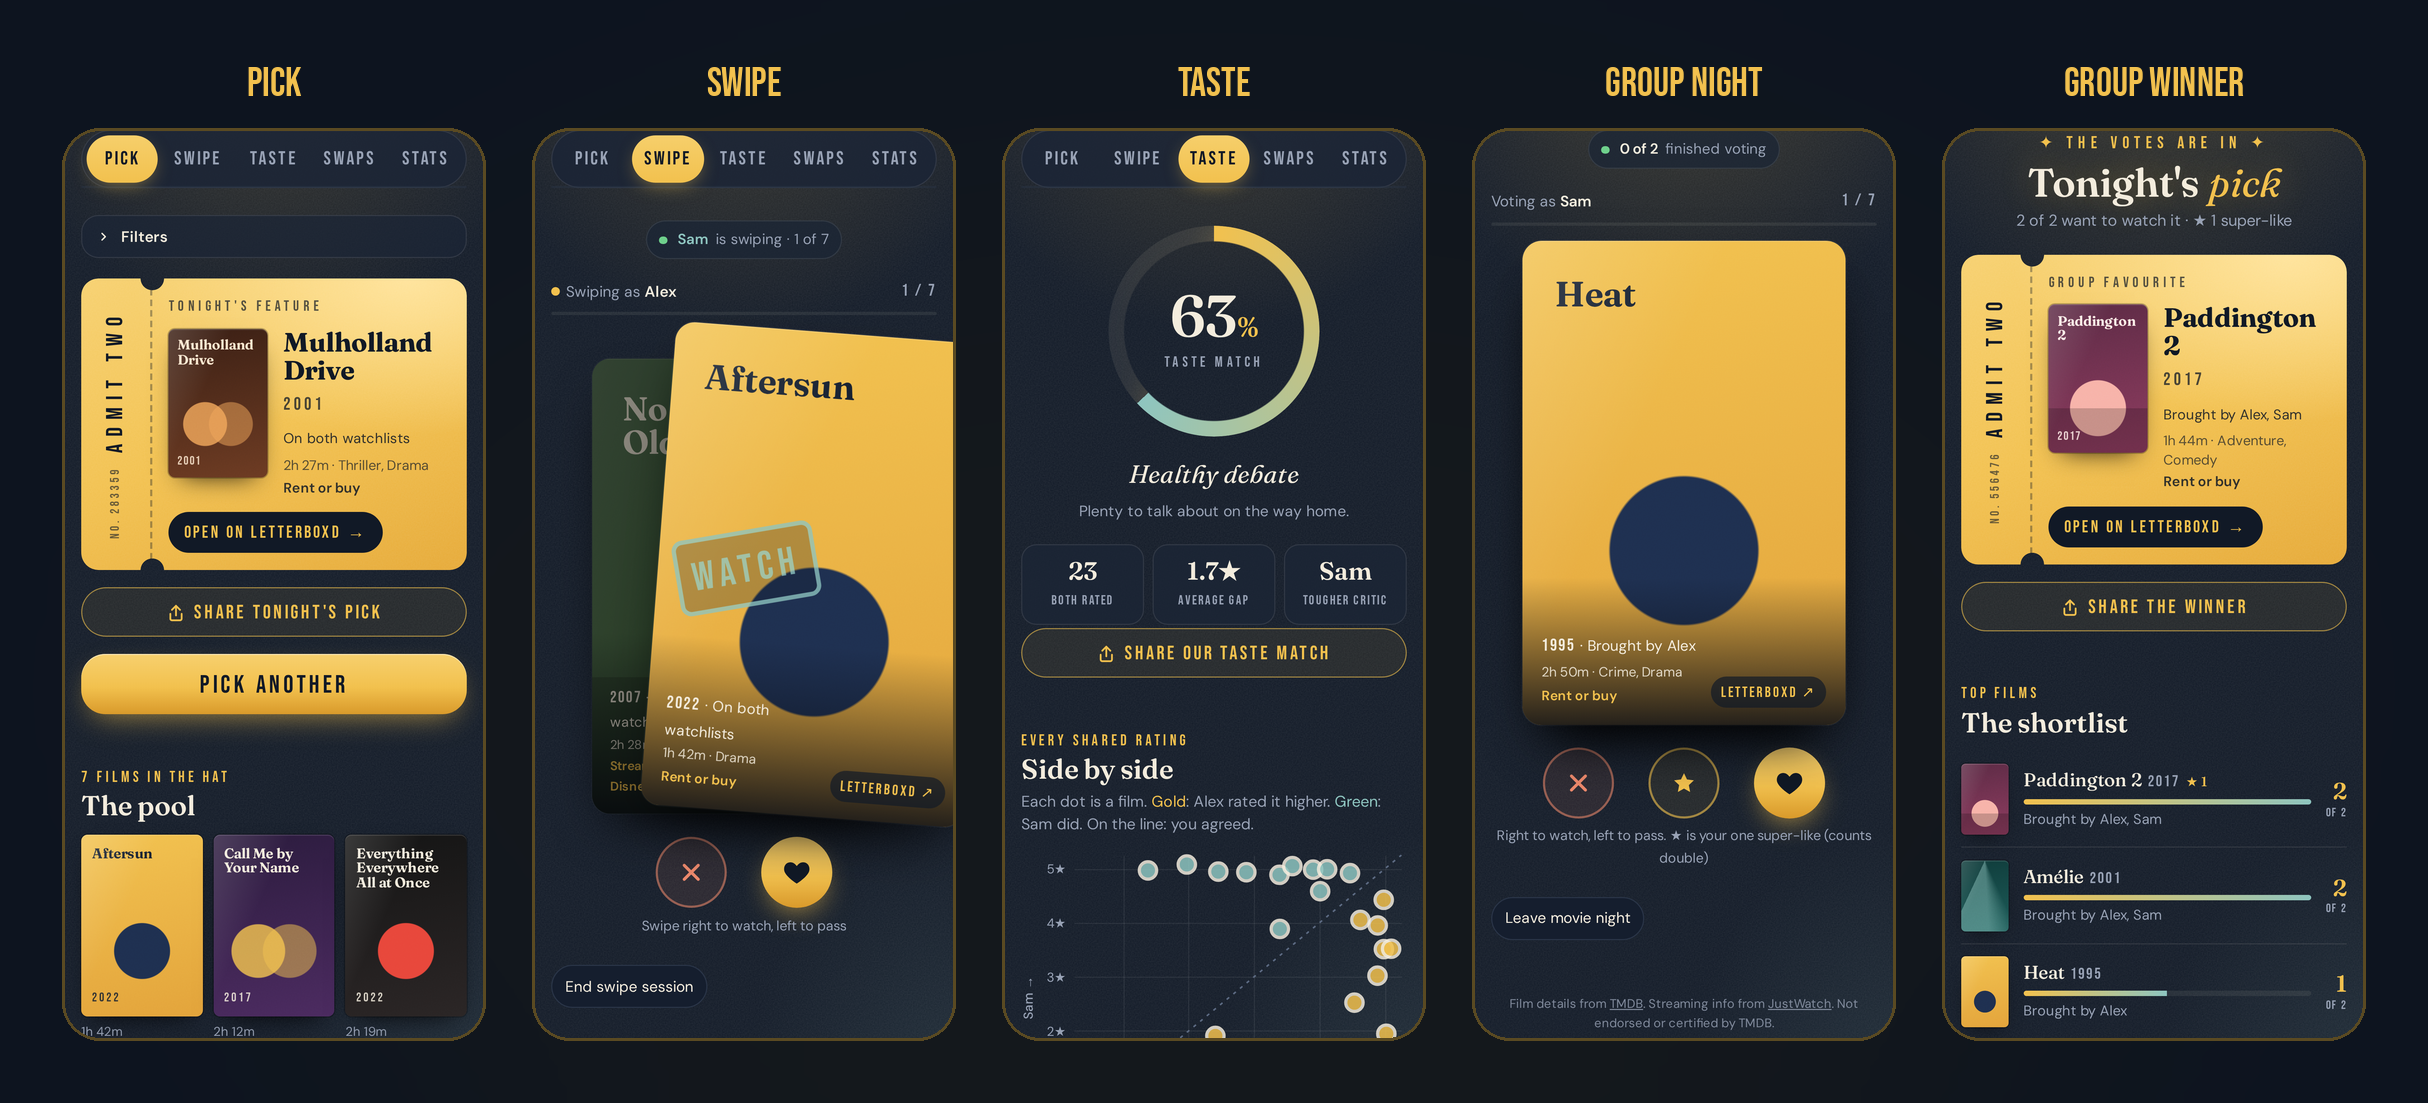
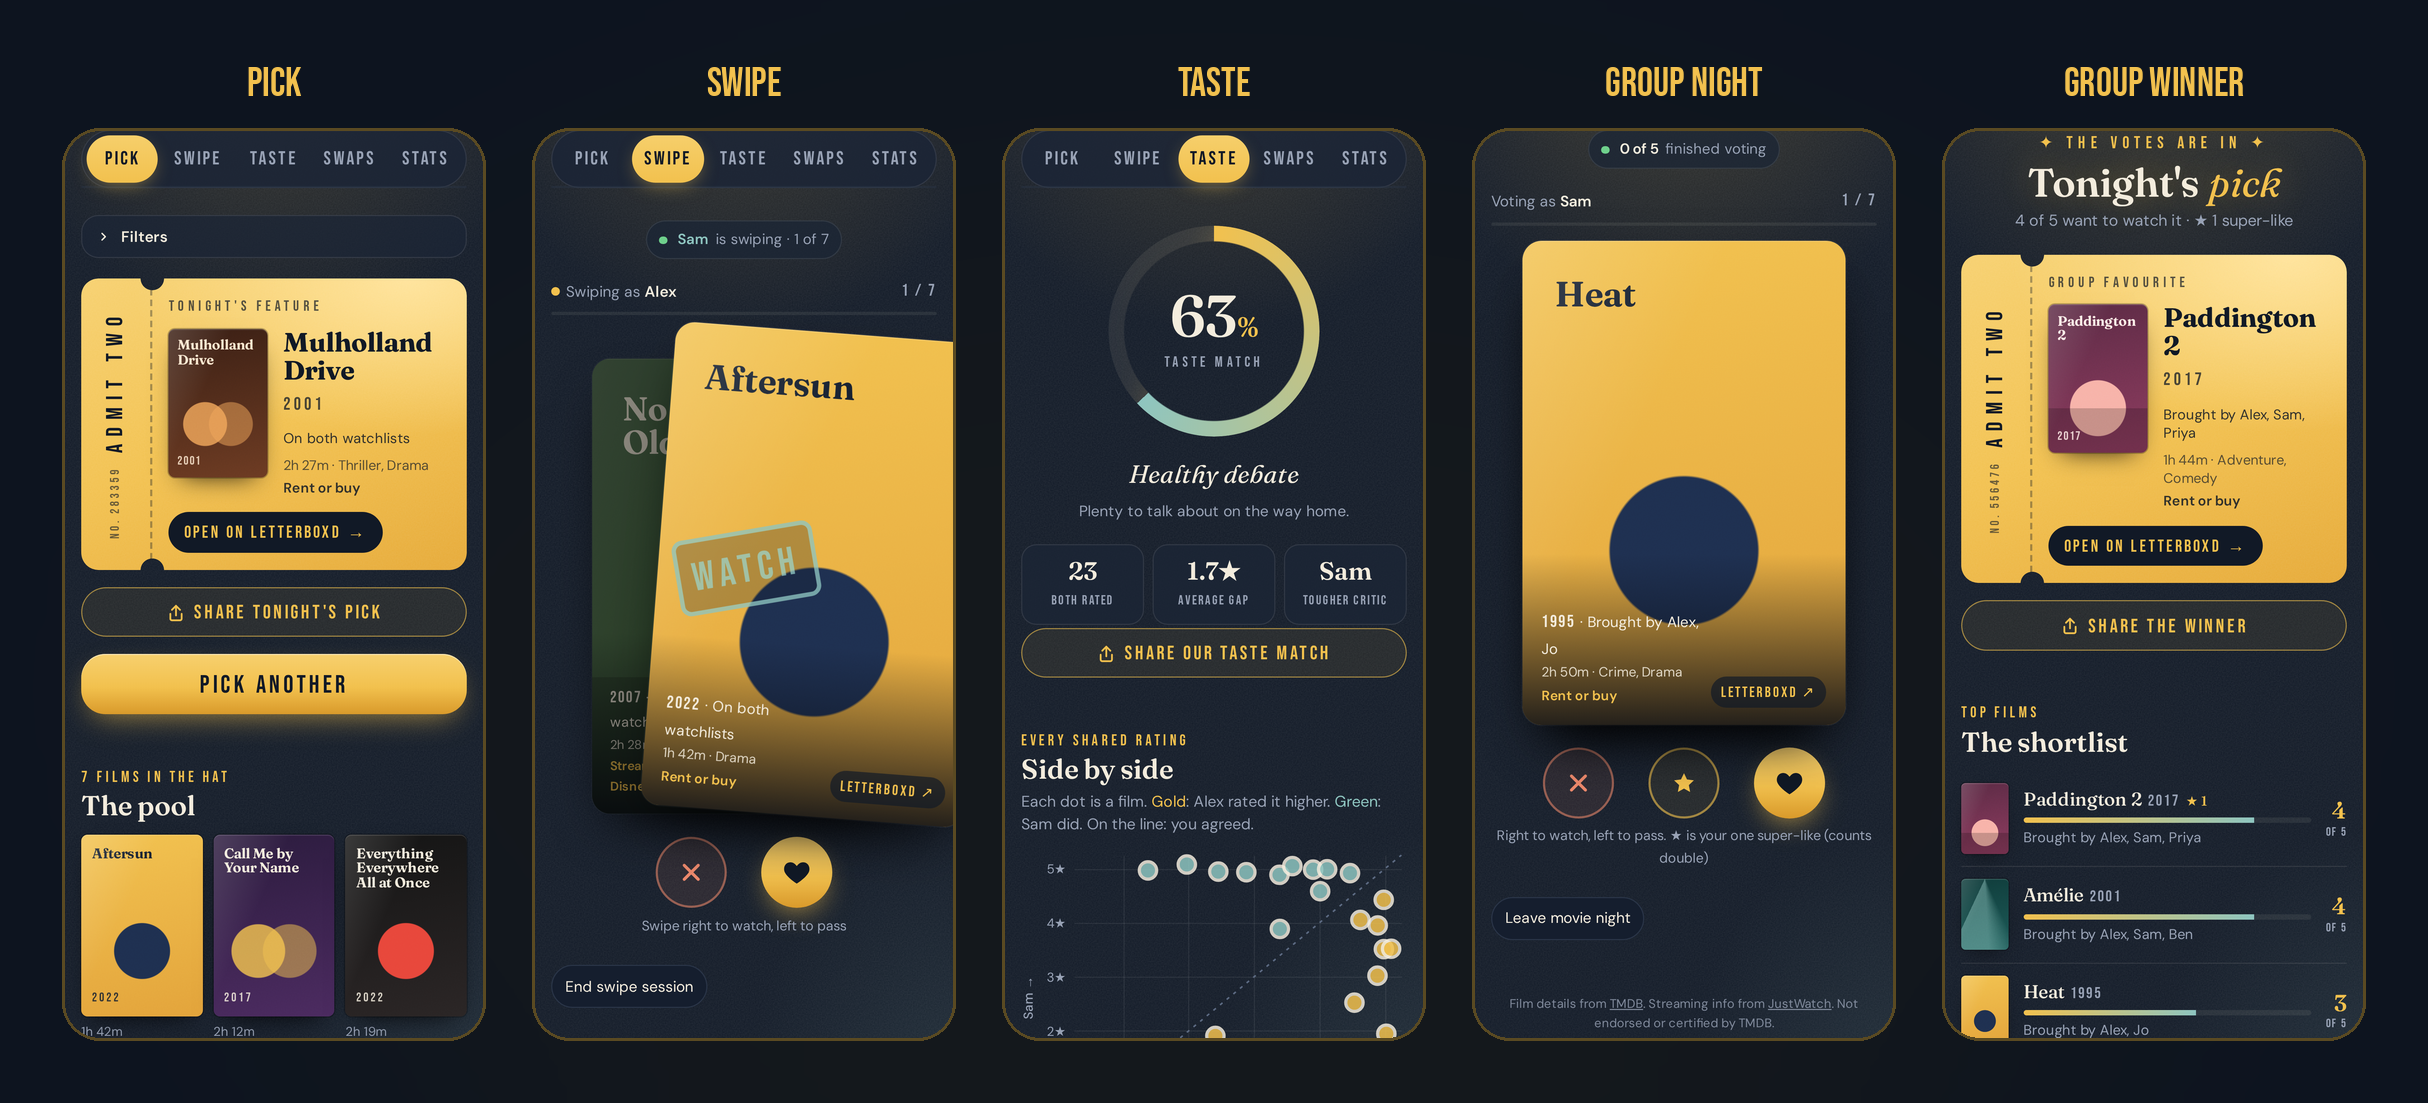
Add files via upload

diff --git a/README.md b/README.md
@@ -25,7 +25,7 @@ There's also a **Group night** mode for more than two people. Everyone brings a 
 On top of that:
 
 - **Film details:** each film shows its length and genre, and **where it's streaming** in your country.
-- **Poster style:** under **Settings**, each person can choose a minimal art style or the films' real posters.
+- **Poster style:** under **Settings**, each person can choose the minimal generated art or the films' real posters.
 - **Share:** a **Share** button turns tonight's pick, your match, your taste-match score or the group winner into an image for WhatsApp or Instagram.
 
 ## How to use it
